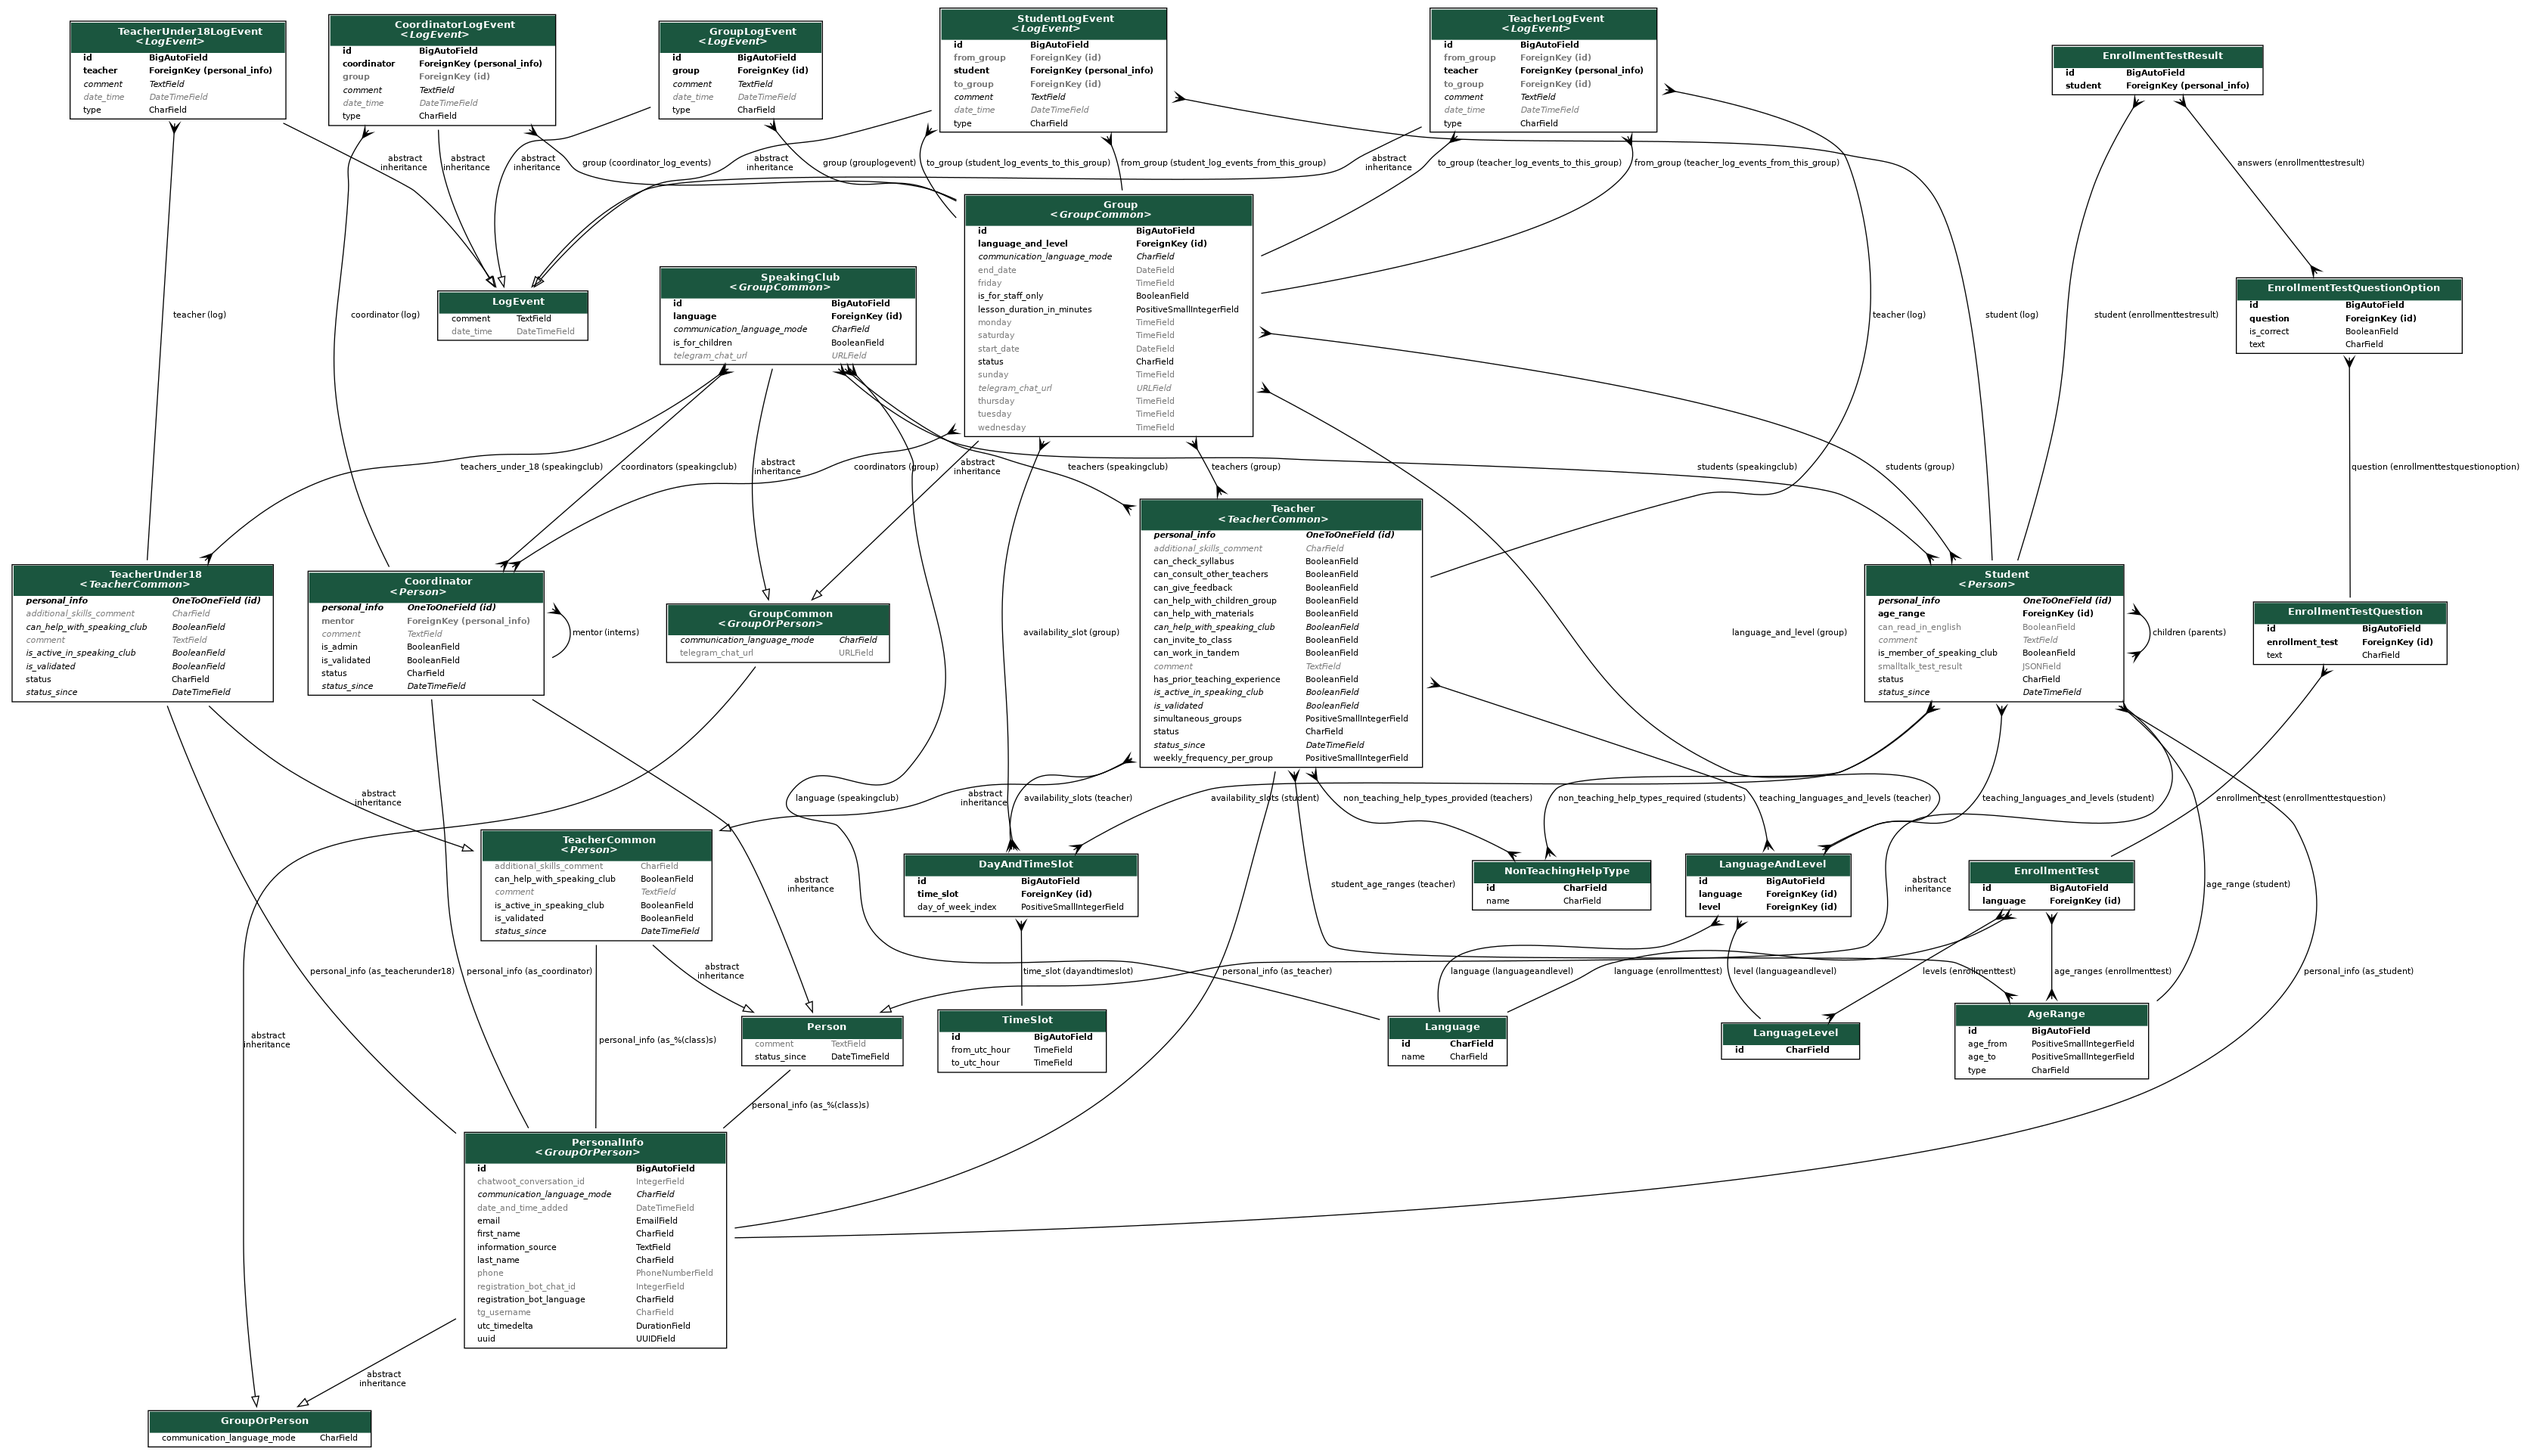
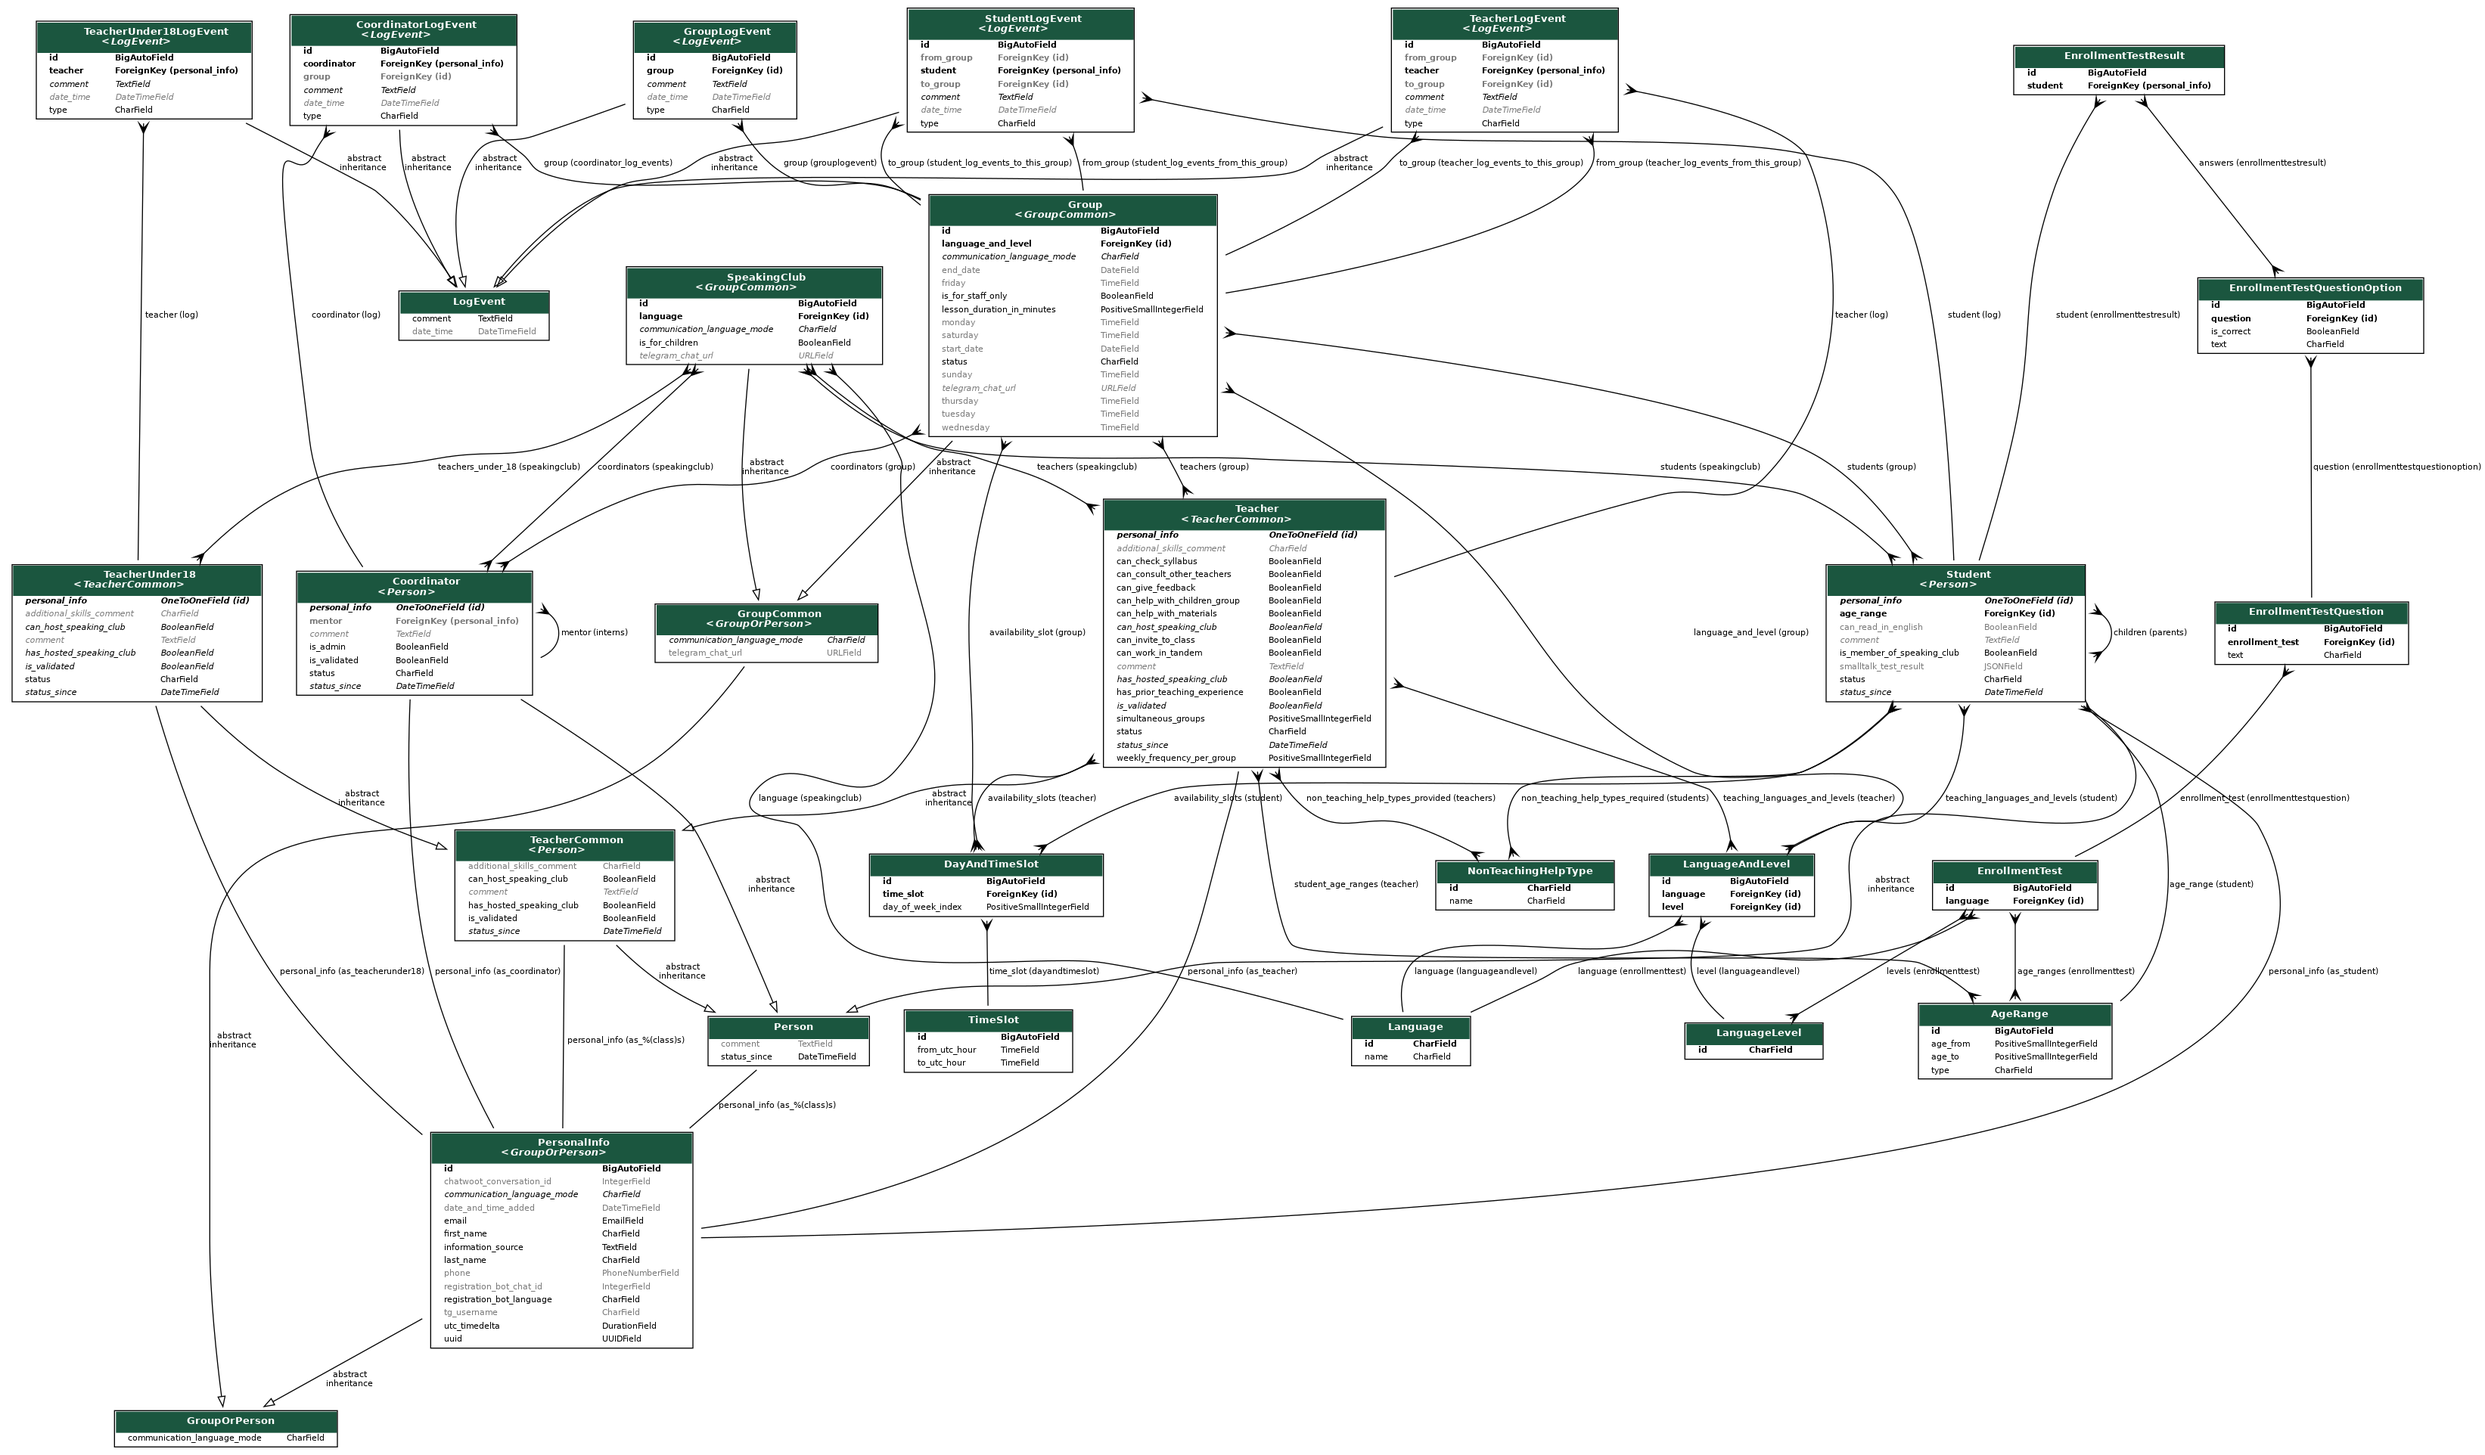
rename speaking-club-related columns
`can_help_with_speaking_club` can be confused
with other boolean fields related to peer help.

diff --git a/tests/tests_api/test_teacher_under_18.py b/tests/tests_api/test_teacher_under_18.py
@@ -12,10 +12,10 @@ def test_teacher_under_18_create(api_client, faker):
     data = {
         "personal_info": personal_info.id,
         "additional_skills_comment": faker.pystr(max_chars=DEFAULT_CHOICE_CHAR_FIELD_MAX_LENGTH),
-        "can_help_with_speaking_club": faker.pybool(),
+        "can_host_speaking_club": faker.pybool(),
         "comment": faker.text(),
         "status_since": faker.date_time(),
-        "is_active_in_speaking_club": faker.pybool(),
+        "has_hosted_speaking_club": faker.pybool(),
         "is_validated": faker.pybool(),
     }
     response = api_client.post("/api/teachers_under_18/", data=data)
@@ -34,9 +34,9 @@ def test_teacher_under_18_retrieve(api_client):
         "personal_info": teacher_under_18.personal_info.id,
         "comment": teacher_under_18.comment,
         "additional_skills_comment": teacher_under_18.additional_skills_comment,
-        "can_help_with_speaking_club": teacher_under_18.can_help_with_speaking_club,
+        "can_host_speaking_club": teacher_under_18.can_host_speaking_club,
         "status": teacher_under_18.status,
         "status_since": teacher_under_18.status_since.strftime("%Y-%m-%dT%H:%M:%S.%fZ"),
-        "is_active_in_speaking_club": teacher_under_18.is_active_in_speaking_club,
+        "has_hosted_speaking_club": teacher_under_18.has_hosted_speaking_club,
         "is_validated": teacher_under_18.is_validated,
     }

diff --git a/api/migrations/0001_initial.py b/api/migrations/0001_initial.py
@@ -1,4 +1,4 @@
-# Generated by Django 4.2 on 2023-04-07 11:42
+# Generated by Django 4.2 on 2023-04-07 21:36
 
 import datetime
 from django.db import migrations, models
@@ -668,8 +668,8 @@ class Migration(migrations.Migration):
                         verbose_name="comment on additional skills besides teaching",
                     ),
                 ),
-                ("can_help_with_speaking_club", models.BooleanField(default=False)),
-                ("is_active_in_speaking_club", models.BooleanField(default=False)),
+                ("can_host_speaking_club", models.BooleanField(default=False)),
+                ("has_hosted_speaking_club", models.BooleanField(default=False)),
                 (
                     "is_validated",
                     models.BooleanField(
@@ -781,8 +781,8 @@ class Migration(migrations.Migration):
                         verbose_name="comment on additional skills besides teaching",
                     ),
                 ),
-                ("can_help_with_speaking_club", models.BooleanField(default=False)),
-                ("is_active_in_speaking_club", models.BooleanField(default=False)),
+                ("can_host_speaking_club", models.BooleanField(default=False)),
+                ("has_hosted_speaking_club", models.BooleanField(default=False)),
                 (
                     "is_validated",
                     models.BooleanField(

diff --git a/tests/tests_api/test_teacher.py b/tests/tests_api/test_teacher.py
@@ -47,9 +47,9 @@ def test_teacher_create(api_client, faker):
         "simultaneous_groups": faker.pyint(),
         "weekly_frequency_per_group": faker.pyint(),
         "additional_skills_comment": faker.text(),
-        "can_help_with_speaking_club": faker.pybool(),
+        "can_host_speaking_club": faker.pybool(),
         "status_since": faker.date_time(),
-        "is_active_in_speaking_club": faker.pybool(),
+        "has_hosted_speaking_club": faker.pybool(),
         "is_validated": faker.pybool(),
         "non_teaching_help_types_provided": non_teaching_help_types_ids,
     }
@@ -135,8 +135,8 @@ def test_teacher_retrieve(api_client):
         "simultaneous_groups": teacher.simultaneous_groups,
         "weekly_frequency_per_group": teacher.weekly_frequency_per_group,
         "additional_skills_comment": teacher.additional_skills_comment,
-        "can_help_with_speaking_club": teacher.can_help_with_speaking_club,
-        "is_active_in_speaking_club": teacher.is_active_in_speaking_club,
+        "can_host_speaking_club": teacher.can_host_speaking_club,
+        "has_hosted_speaking_club": teacher.has_hosted_speaking_club,
         "is_validated": teacher.is_validated,
         # TODO this fails: JSON only has list of IDs:
         "non_teaching_help_types_provided": non_teaching_help_types,

diff --git a/api/models/people.py b/api/models/people.py
@@ -225,8 +225,8 @@ class TeacherCommon(Person):
         help_text="other ways in which the applicant could help, besides teaching or helping other"
         "teachers with materials or feedback (comment)",
     )
-    can_help_with_speaking_club = models.BooleanField(default=False)
-    is_active_in_speaking_club = models.BooleanField(default=False)
+    can_host_speaking_club = models.BooleanField(default=False)
+    has_hosted_speaking_club = models.BooleanField(default=False)
     is_validated = models.BooleanField(
         help_text="Has an initial validation interview been conducted with this teacher?"
     )
